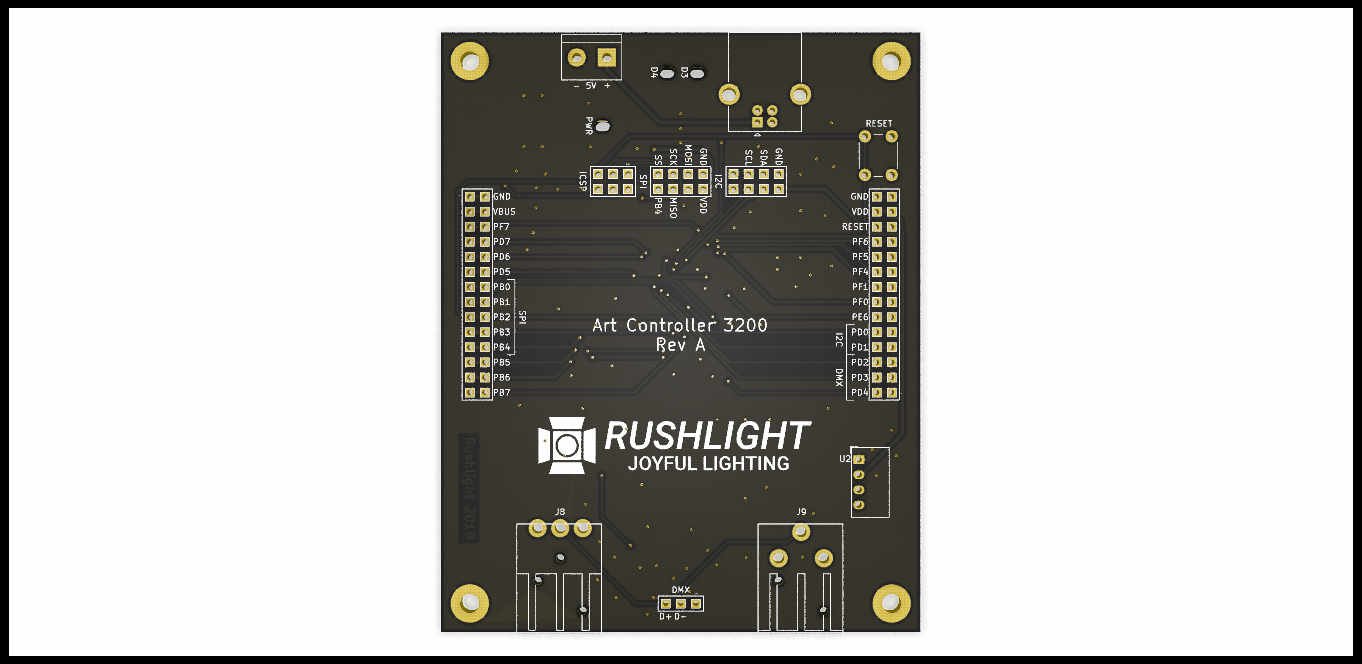
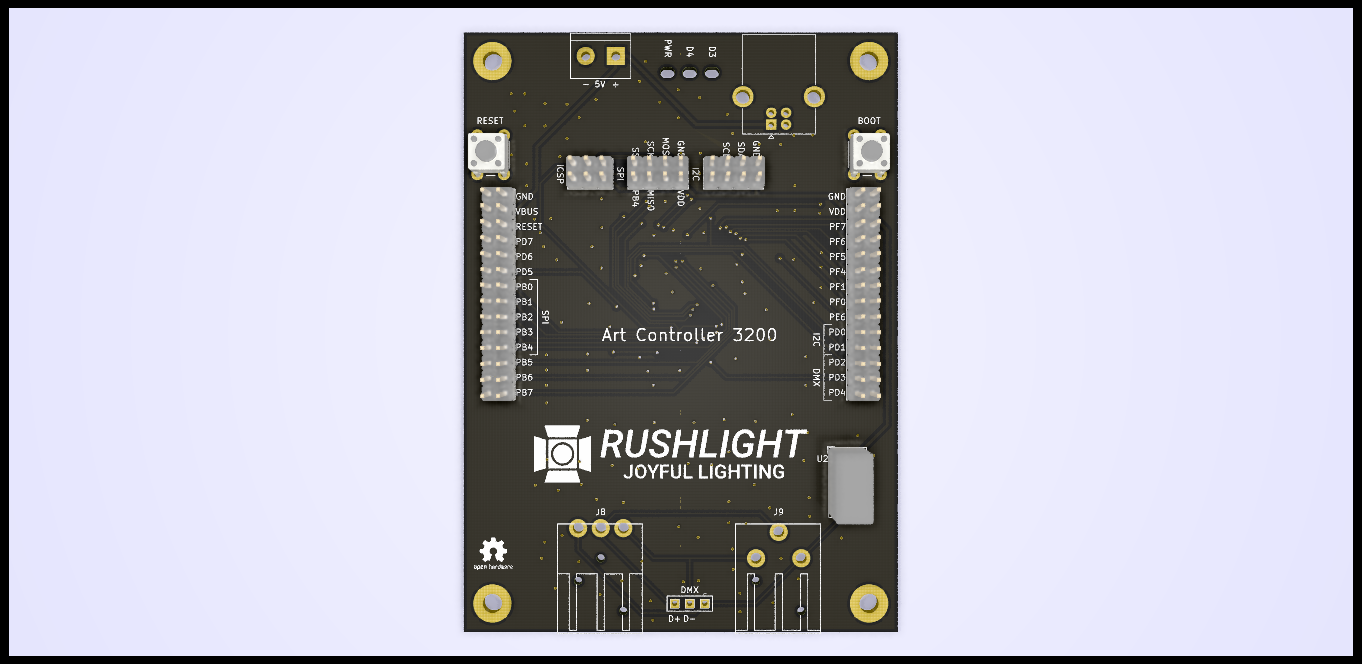
Updated render

diff --git a/README.md b/README.md
@@ -3,3 +3,5 @@ Art Controller 3200
 
 Simple board with ATmega32u4 and isolated DMX512 interface
 
+![PCB render](sch_pcb/art_controller_3200.png)
+
